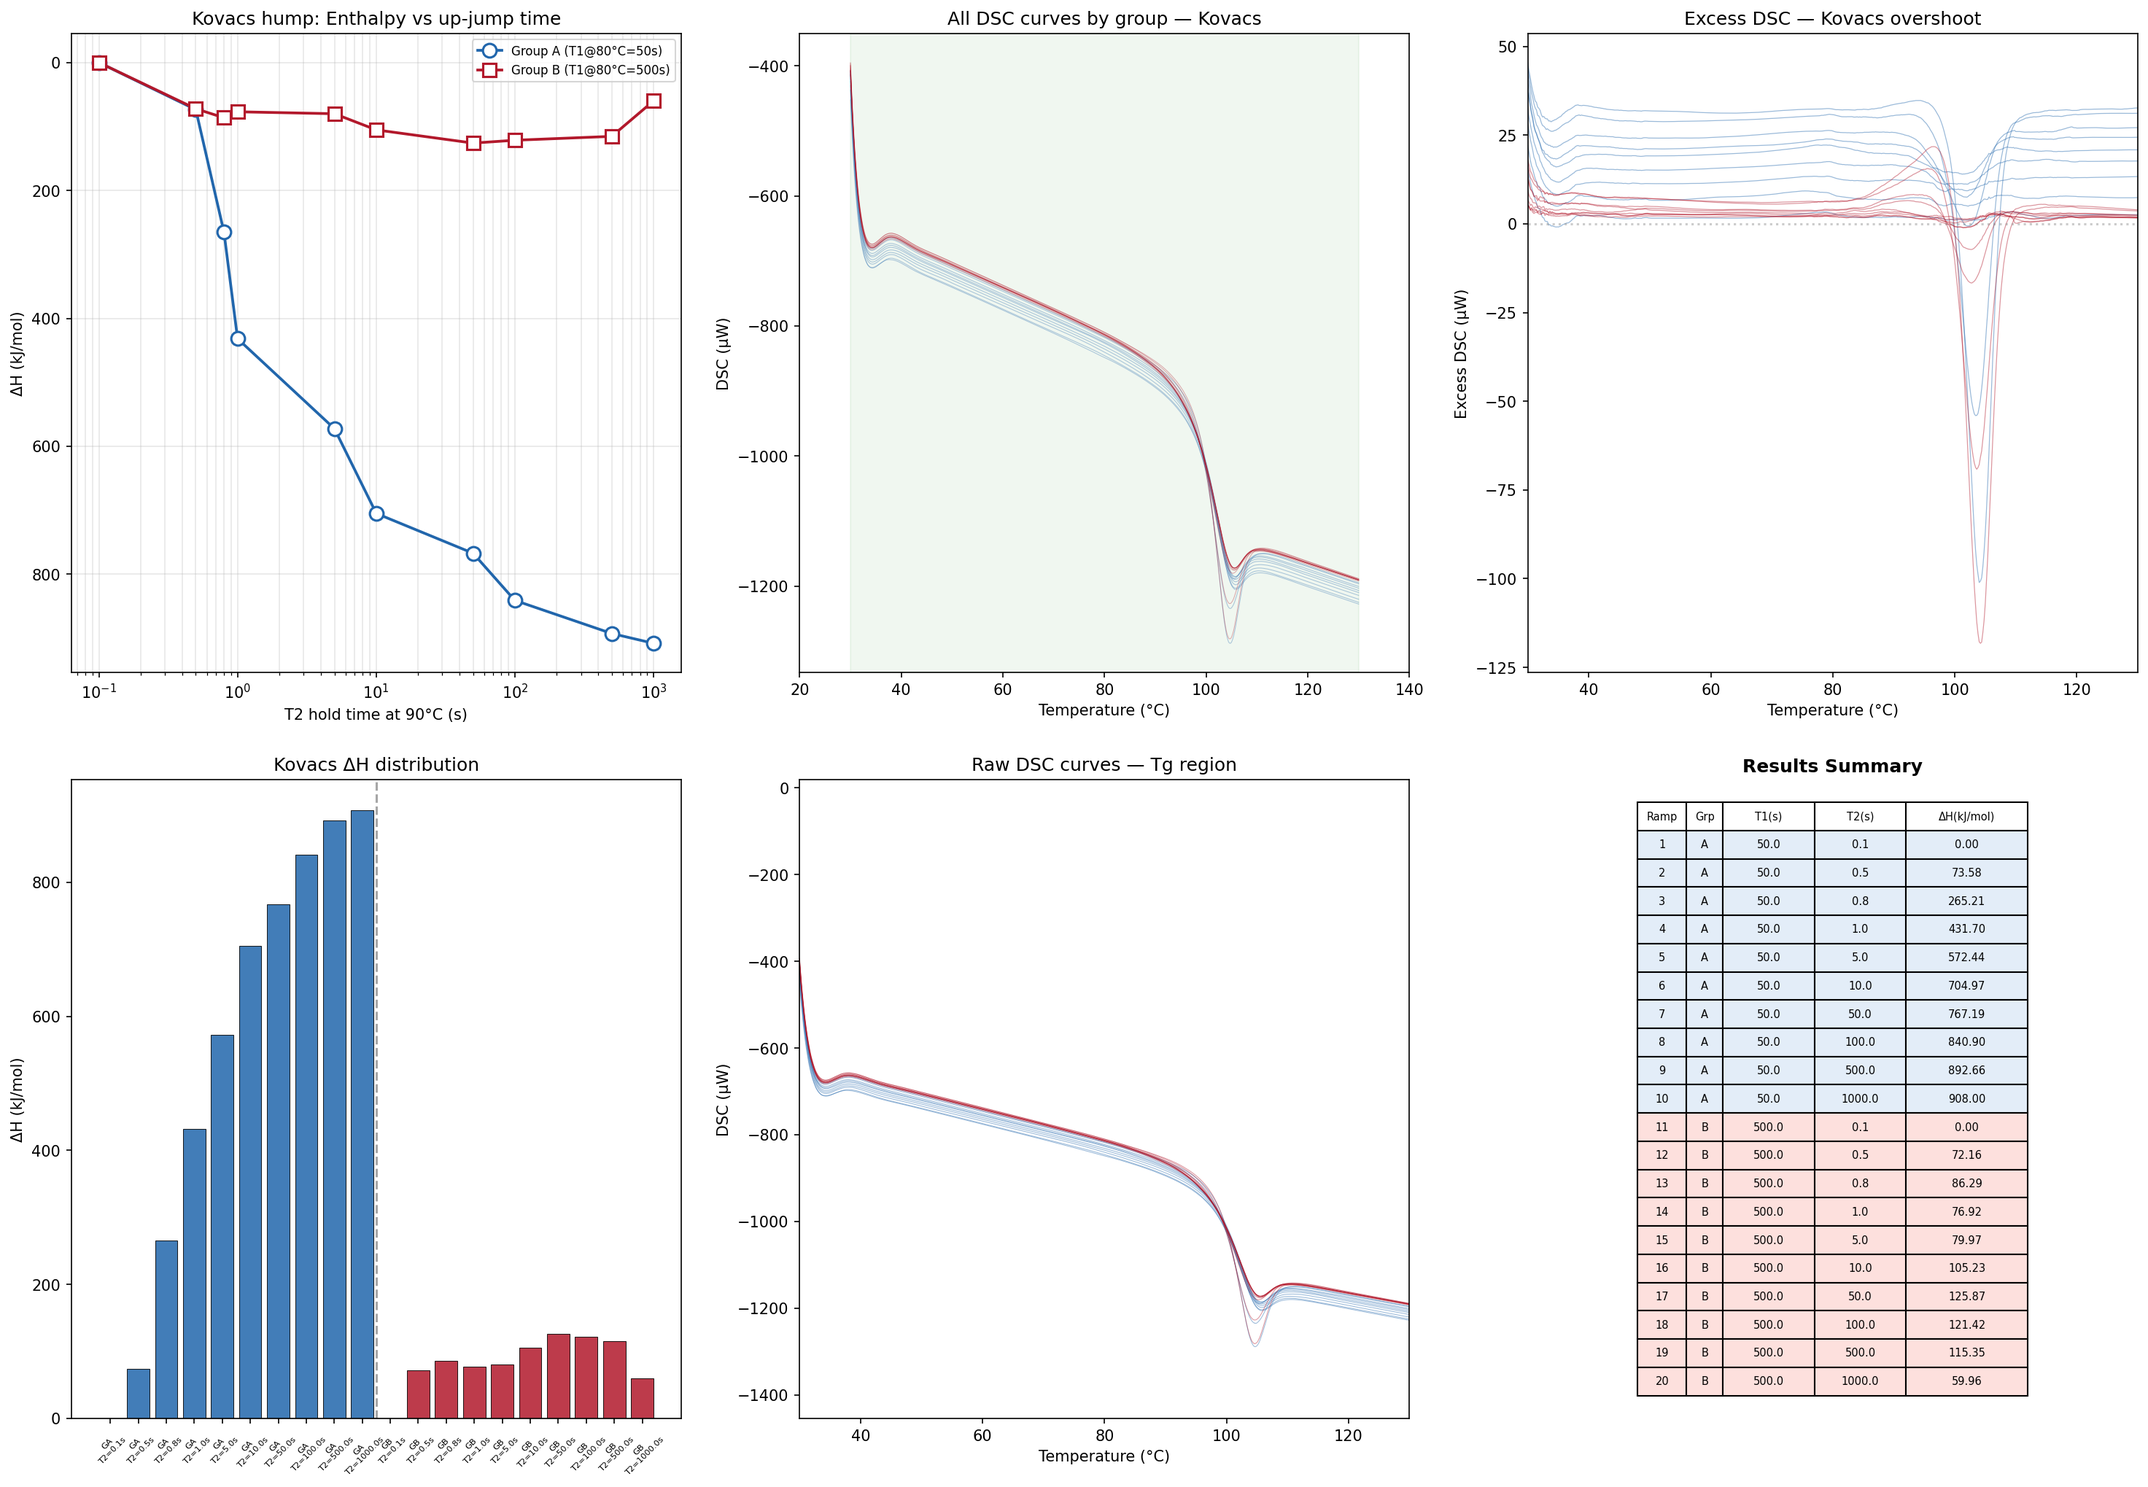
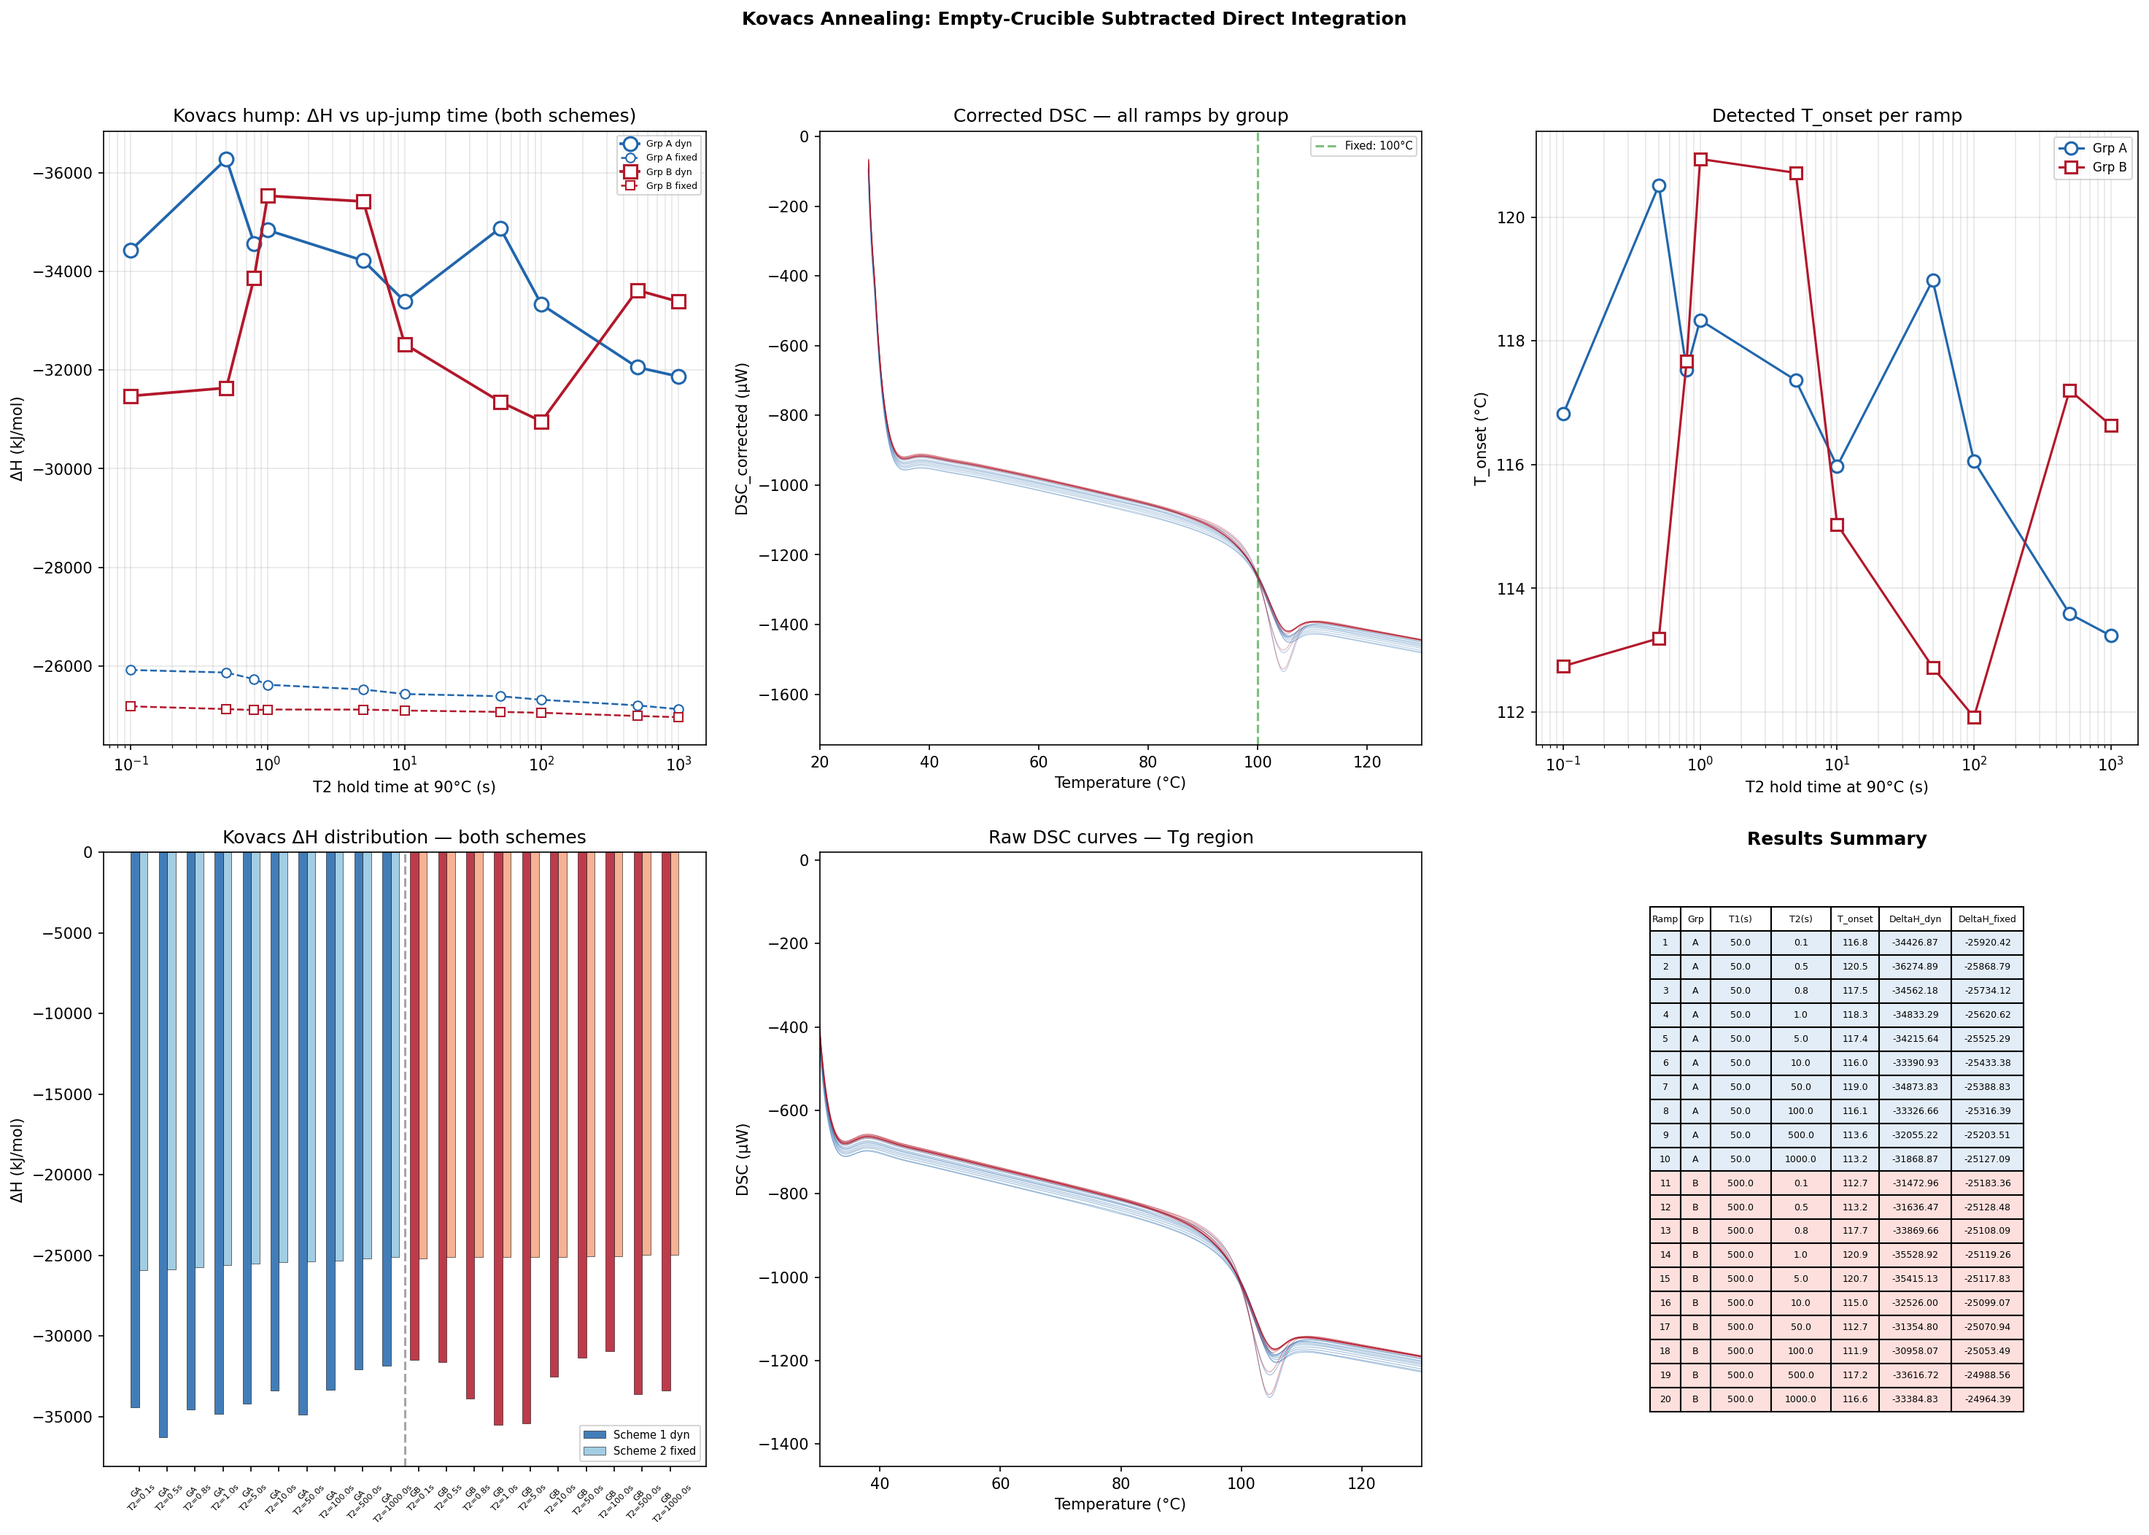
refactor: Kovacs processing to empty-crucible subtraction with dual-scheme integration

diff --git a/src/process_kovacs.py b/src/process_kovacs.py
@@ -10,7 +10,6 @@ should emerge naturally from the data.
 import os
 import numpy as np
 import pandas as pd
-from scipy.interpolate import interp1d
 from scipy.integrate import trapezoid
 import matplotlib
 matplotlib.use('Agg')
@@ -18,6 +17,7 @@ import matplotlib.pyplot as plt
 
 from process_shared import (
     load_dsc_experiment, detect_heating_ramps, compute_enthalpy,
+    load_empty_crucible, subtract_empty_crucible, detect_t_onset,
     HEATING_T_START, HEATING_T_END,
 )
 
@@ -26,8 +26,9 @@ DATA_DIR = os.path.join(ROOT_DIR, 'data')
 RESULTS_DIR = os.path.join(ROOT_DIR, 'results', 'dsc')
 
 T_INT_LOW = 30
-T_INT_HIGH = 130
-T_GRID_STEP = 0.2
+T_INT_HIGH_FIXED = 100
+
+EMPTY_CRUCIBLE_CSV = os.path.join(DATA_DIR, 'csv', 'baseline-01.csv')
 
 
 def map_kovacs(program, ramps):
@@ -74,8 +75,13 @@ def map_kovacs(program, ramps):
 
 def main():
     print("=" * 70)
-    print("  Kovacs annealing DSC — Direct difference method")
+    print("  Kovacs annealing DSC — Empty-crucible subtraction + direct integration")
     print("=" * 70)
+
+    # Load empty crucible
+    T_empty, DSC_empty = load_empty_crucible(EMPTY_CRUCIBLE_CSV)
+    print(f"  Loaded empty crucible: {len(T_empty)} pts, "
+          f"{T_empty.min():.1f}–{T_empty.max():.1f}°C")
 
     exp_data, program = load_dsc_experiment(
         os.path.join(DATA_DIR, 'pskovacs.xlsx'), sheet='PS-kovacs-01')
@@ -91,122 +97,124 @@ def main():
         print(f"    Ramp {c['ramp_idx']:2d} [Grp {c['group']}]: "
               f"T1@80°C={c['T1_hold_s']:8.1f}s, T2@90°C={c['T2_hold_s']:8.1f}s")
 
-    T_grid = np.arange(T_INT_LOW, T_INT_HIGH + T_GRID_STEP, T_GRID_STEP)
-
-    # Interpolate all ramps
-    dsc_interp = {}
-    for cond in conditions:
-        s, e = cond['start_idx'], cond['end_idx']
-        f = interp1d(T_exp[s:e+1], DSC_exp[s:e+1], kind='linear',
-                     bounds_error=False, fill_value='extrapolate')
-        dsc_interp[cond['ramp_idx']] = f(T_grid)
-
-    # Per-group processing
     results = []
     colors = {'A': '#2166AC', 'B': '#B2182B'}
     markers = {'A': 'o', 'B': 's'}
 
-    for grp_label in ['A', 'B']:
-        grp_conds = [c for c in conditions if c['group'] == grp_label]
-        if len(grp_conds) < 2:
-            continue
+    for cond in conditions:
+        s, e = cond['start_idx'], cond['end_idx']
+        T_ramp = T_exp[s:e+1]
+        DSC_ramp = DSC_exp[s:e+1]
 
-        ref_cond = min(grp_conds, key=lambda c: c['T2_hold_s'])
-        ref_dsc = dsc_interp[ref_cond['ramp_idx']]
+        DSC_corr = subtract_empty_crucible(T_ramp, DSC_ramp, T_empty, DSC_empty)
 
-        print(f"\n  [Group {grp_label}] Reference: ramp {ref_cond['ramp_idx']}, "
-              f"T2 hold = {ref_cond['T2_hold_s']:.1f}s")
+        # Scheme 1: dynamic T_onset
+        T_onset = detect_t_onset(T_ramp, DSC_corr)
+        mask1 = (T_ramp >= T_INT_LOW) & (T_ramp <= T_onset)
+        area1 = trapezoid(DSC_corr[mask1], T_ramp[mask1])
+        dH1 = compute_enthalpy(area1)
 
-        for cond in grp_conds:
-            excess = dsc_interp[cond['ramp_idx']] - ref_dsc
-            excess_area = trapezoid(excess, T_grid)
-            delta_H = compute_enthalpy(excess_area)
-            results.append({
-                'ramp': cond['ramp_idx'],
-                'group': cond['group'],
-                'T1_hold_s': cond['T1_hold_s'],
-                'T2_hold_s': cond['T2_hold_s'],
-                'T1_hold_min': cond['T1_hold_min'],
-                'T2_hold_min': cond['T2_hold_min'],
-                'delta_H_kJmol': delta_H,
-                'is_ref': (cond['ramp_idx'] == ref_cond['ramp_idx']),
-            })
-            marker = ' *REF*' if cond['ramp_idx'] == ref_cond['ramp_idx'] else ''
-            print(f"    Ramp {cond['ramp_idx']:2d}: "
-                  f"T1={cond['T1_hold_s']:8.1f}s, T2={cond['T2_hold_s']:8.1f}s → "
-                  f"ΔH={delta_H:+.2f} kJ/mol{marker}")
+        # Scheme 2: fixed 30-100°C
+        mask2 = (T_ramp >= T_INT_LOW) & (T_ramp <= T_INT_HIGH_FIXED)
+        area2 = trapezoid(DSC_corr[mask2], T_ramp[mask2])
+        dH2 = compute_enthalpy(area2)
+
+        results.append({
+            'ramp': cond['ramp_idx'],
+            'group': cond['group'],
+            'T1_hold_s': cond['T1_hold_s'],
+            'T2_hold_s': cond['T2_hold_s'],
+            'T1_hold_min': cond['T1_hold_min'],
+            'T2_hold_min': cond['T2_hold_min'],
+            'T_onset': T_onset,
+            'delta_H_dyn_kJmol': dH1,
+            'delta_H_fixed_kJmol': dH2,
+            '_T_ramp': T_ramp,
+            '_DSC_corr': DSC_corr,
+        })
+        print(f"    Ramp {cond['ramp_idx']:2d}: T1={cond['T1_hold_s']:8.1f}s, "
+              f"T2={cond['T2_hold_s']:8.1f}s, T_onset={T_onset:.1f}°C → "
+              f"ΔH_dyn={dH1:+.2f}, ΔH_fixed={dH2:+.2f} kJ/mol")
 
     results_df = pd.DataFrame(results)
 
-    # ── Plots ──────────────────────────────────────────────────────────────
+    # Generate plots
     fig = plt.figure(figsize=(20, 14))
 
-    # Panel 1: ΔH vs T2 hold time — THE KOVACS HUMP
+    # Panel 1: ΔH vs T2 hold time — Kovacs hump (both schemes)
     ax1 = fig.add_subplot(2, 3, 1)
     for grp in ['A', 'B']:
         rd = results_df[results_df['group'] == grp].sort_values('T2_hold_s')
-        ax1.plot(rd['T2_hold_s'], rd['delta_H_kJmol'],
+        ax1.plot(rd['T2_hold_s'], rd['delta_H_dyn_kJmol'],
                  marker=markers[grp], color=colors[grp], linewidth=1.8,
                  markersize=9, markerfacecolor='white',
-                 markeredgewidth=1.5,
-                 label=f'Group {grp} (T1@80°C={50 if grp=="A" else 500}s)')
+                 markeredgewidth=1.5, linestyle='-',
+                 label=f'Grp {grp} dyn')
+        ax1.plot(rd['T2_hold_s'], rd['delta_H_fixed_kJmol'],
+                 marker=markers[grp], color=colors[grp], linewidth=1.2,
+                 markersize=6, markerfacecolor='white',
+                 markeredgewidth=1.0, linestyle='--',
+                 label=f'Grp {grp} fixed')
     ax1.set_xlabel('T2 hold time at 90°C (s)')
     ax1.set_ylabel('ΔH (kJ/mol)')
-    ax1.set_title('Kovacs hump: Enthalpy vs up-jump time')
+    ax1.set_title('Kovacs hump: ΔH vs up-jump time (both schemes)')
     ax1.set_xscale('log')
     ax1.invert_yaxis()
-    ax1.legend(fontsize=8)
+    ax1.legend(fontsize=6)
     ax1.grid(True, alpha=0.3, which='both')
 
-    # Panel 2: All DSC curves
+    # Panel 2: Corrected DSC curves
     ax2 = fig.add_subplot(2, 3, 2)
-    for cond in conditions:
-        ax2.plot(T_grid, dsc_interp[cond['ramp_idx']],
-                 alpha=0.35, linewidth=0.5,
-                 color=colors[cond['group']])
-    ax2.axvspan(T_INT_LOW, T_INT_HIGH, alpha=0.06, color='green')
+    for r in results:
+        ax2.plot(r['_T_ramp'], r['_DSC_corr'], alpha=0.35, linewidth=0.5,
+                 color=colors[r['group']])
+    ax2.axvline(T_INT_HIGH_FIXED, color='green', linestyle='--', alpha=0.5,
+                label=f'Fixed: {T_INT_HIGH_FIXED}°C')
     ax2.set_xlabel('Temperature (°C)')
-    ax2.set_ylabel('DSC (µW)')
-    ax2.set_title('All DSC curves by group — Kovacs')
-    ax2.set_xlim(T_INT_LOW - 10, T_INT_HIGH + 10)
+    ax2.set_ylabel('DSC_corrected (µW)')
+    ax2.set_title('Corrected DSC — all ramps by group')
+    ax2.set_xlim(T_INT_LOW - 10, T_INT_HIGH_FIXED + 30)
+    ax2.legend(fontsize=7)
 
-    # Panel 3: Excess DSC
+    # Panel 3: T_onset distribution
     ax3 = fig.add_subplot(2, 3, 3)
-    ref_idxs = {}
     for grp in ['A', 'B']:
-        gcs = [c for c in conditions if c['group'] == grp]
-        ref_idxs[grp] = min(gcs, key=lambda c: c['T2_hold_s'])['ramp_idx']
-    for cond in conditions:
-        ridx = cond['ramp_idx']
-        ref_idx = ref_idxs[cond['group']]
-        if ridx == ref_idx:
-            continue
-        excess = dsc_interp[ridx] - dsc_interp[ref_idx]
-        ax3.plot(T_grid, excess, alpha=0.45, linewidth=0.6,
-                 color=colors[cond['group']])
-    ax3.axhline(0, color='gray', linestyle=':', alpha=0.4)
-    ax3.set_xlabel('Temperature (°C)')
-    ax3.set_ylabel('Excess DSC (µW)')
-    ax3.set_title('Excess DSC — Kovacs overshoot')
-    ax3.set_xlim(T_INT_LOW, T_INT_HIGH)
+        rd = results_df[results_df['group'] == grp].sort_values('T2_hold_s')
+        ax3.plot(rd['T2_hold_s'], rd['T_onset'],
+                 marker=markers[grp], color=colors[grp], linewidth=1.5,
+                 markersize=8, markerfacecolor='white',
+                 markeredgewidth=1.5, label=f'Grp {grp}')
+    ax3.set_xlabel('T2 hold time at 90°C (s)')
+    ax3.set_ylabel('T_onset (°C)')
+    ax3.set_title('Detected T_onset per ramp')
+    ax3.set_xscale('log')
+    ax3.legend(fontsize=8)
+    ax3.grid(True, alpha=0.3, which='both')
 
-    # Panel 4: ΔH bar chart
+    # Panel 4: ΔH bar chart comparison
     ax4 = fig.add_subplot(2, 3, 4)
     n = len(results_df)
     x_pos = np.arange(n)
-    bar_colors = [colors[r['group']] for _, r in results_df.iterrows()]
-    ax4.bar(x_pos, results_df['delta_H_kJmol'], color=bar_colors,
-            edgecolor='black', linewidth=0.5, alpha=0.85)
+    bar_colors_dyn = [colors[r['group']] for _, r in results_df.iterrows()]
+    bar_colors_fixed = ['#92C5DE' if r['group'] == 'A' else '#F4A582'
+                        for _, r in results_df.iterrows()]
+    ax4.bar(x_pos - 0.15, results_df['delta_H_dyn_kJmol'], 0.3,
+            color=bar_colors_dyn, edgecolor='black', linewidth=0.3, alpha=0.85,
+            label='Scheme 1 dyn')
+    ax4.bar(x_pos + 0.15, results_df['delta_H_fixed_kJmol'], 0.3,
+            color=bar_colors_fixed, edgecolor='black', linewidth=0.3, alpha=0.85,
+            label='Scheme 2 fixed')
     ax4.set_xticks(x_pos)
     ax4.set_xticklabels([f"G{r['group']}\nT2={r['T2_hold_s']:.1f}s"
                          for _, r in results_df.iterrows()],
                         fontsize=5.5, rotation=45)
     ax4.set_ylabel('ΔH (kJ/mol)')
-    ax4.set_title('Kovacs ΔH distribution')
+    ax4.set_title('Kovacs ΔH distribution — both schemes')
+    ax4.legend(fontsize=7)
     mid = len(results_df[results_df['group'] == 'A']) - 0.5
     ax4.axvline(mid, color='gray', linestyle='--', alpha=0.7)
 
-    # Panel 5: DSC curves on original grid (Tg region zoom)
+    # Panel 5: Raw DSC curves — Tg region zoom
     ax5 = fig.add_subplot(2, 3, 5)
     for cond in conditions:
         s, e = cond['start_idx'], cond['end_idx']
@@ -216,9 +224,9 @@ def main():
     ax5.set_xlabel('Temperature (°C)')
     ax5.set_ylabel('DSC (µW)')
     ax5.set_title('Raw DSC curves — Tg region')
-    ax5.set_xlim(T_INT_LOW, T_INT_HIGH)
+    ax5.set_xlim(T_INT_LOW, T_INT_HIGH_FIXED + 30)
 
-    # Panel 6: Table
+    # Panel 6: Results table
     ax6 = fig.add_subplot(2, 3, 6)
     ax6.axis('off')
     table_data = []
@@ -226,33 +234,40 @@ def main():
         table_data.append([
             f"{r['ramp']:.0f}", r['group'],
             f"{r['T1_hold_s']:.1f}", f"{r['T2_hold_s']:.1f}",
-            f"{r['delta_H_kJmol']:.2f}",
+            f"{r['T_onset']:.1f}",
+            f"{r['delta_H_dyn_kJmol']:.2f}",
+            f"{r['delta_H_fixed_kJmol']:.2f}",
         ])
-    col_labels = ['Ramp', 'Grp', 'T1(s)', 'T2(s)', 'ΔH(kJ/mol)']
+    col_labels = ['Ramp', 'Grp', 'T1(s)', 'T2(s)', 'T_onset',
+                  'DeltaH_dyn', 'DeltaH_fixed']
     table = ax6.table(cellText=table_data, colLabels=col_labels,
                       cellLoc='center', loc='center',
-                      colWidths=[0.08, 0.06, 0.15, 0.15, 0.2])
+                      colWidths=[0.05, 0.05, 0.10, 0.10, 0.08, 0.12, 0.12])
     table.auto_set_font_size(False)
-    table.set_fontsize(7)
-    table.scale(1.0, 1.3)
+    table.set_fontsize(6)
+    table.scale(1.0, 1.15)
     for row_idx in range(len(table_data)):
-        for col_idx in range(5):
+        for col_idx in range(7):
             cell = table[row_idx + 1, col_idx]
             cell.set_facecolor('#E3EDF8' if row_idx < 10 else '#FDE0DD')
     ax6.set_title('Results Summary', fontweight='bold', pad=5)
 
+    fig.suptitle('Kovacs Annealing: Empty-Crucible Subtracted Direct Integration',
+                 fontsize=12, fontweight='bold', y=1.01)
     plt.tight_layout(pad=2)
     png_path = os.path.join(RESULTS_DIR, 'kovacs_enthalpy_results.png')
     plt.savefig(png_path, dpi=150, bbox_inches='tight')
+    plt.close()
     print(f"\n  Saved {png_path}")
 
     csv_path = os.path.join(RESULTS_DIR, 'kovacs_enthalpy_results.csv')
     save_cols = ['ramp', 'group', 'T1_hold_s', 'T2_hold_s',
-                 'T1_hold_min', 'T2_hold_min', 'delta_H_kJmol']
+                 'T1_hold_min', 'T2_hold_min', 'T_onset',
+                 'delta_H_dyn_kJmol', 'delta_H_fixed_kJmol']
     results_df[save_cols].to_csv(csv_path, index=False, float_format='%.6f')
     print(f"  Saved {csv_path}")
 
-    # Summary
+    # Summary with Kovacs hump check
     print("\n" + "=" * 70)
     print("  RESULTS SUMMARY — Kovacs annealing")
     print("=" * 70)
@@ -260,17 +275,21 @@ def main():
         rd = results_df[results_df['group'] == grp]
         t1_val = rd['T1_hold_s'].iloc[0]
         print(f"\n  Group {grp} (T1@80°C = {t1_val:.0f}s):")
-        print(f"    ΔH: {rd['delta_H_kJmol'].min():.2f} – "
-              f"{rd['delta_H_kJmol'].max():.2f} kJ/mol, n={len(rd)}")
-        dH_vals = rd['delta_H_kJmol'].values
-        if len(dH_vals) >= 3:
-            # Check for Kovacs hump pattern: decrease then increase
-            mid_min = np.min(dH_vals[1:-1])
-            edge_min = min(dH_vals[0], dH_vals[-1])
-            if mid_min < edge_min * 0.8:
-                print(f"    ✓ Kovacs hump detected (mid-range dip!)")
-            else:
-                print(f"    No clear hump pattern")
+        print(f"    DeltaH_dyn:   {rd['delta_H_dyn_kJmol'].min():.2f} – "
+              f"{rd['delta_H_dyn_kJmol'].max():.2f} kJ/mol")
+        print(f"    DeltaH_fixed: {rd['delta_H_fixed_kJmol'].min():.2f} – "
+              f"{rd['delta_H_fixed_kJmol'].max():.2f} kJ/mol")
+        # Check for Kovacs hump pattern
+        dH_vals_dyn = rd['delta_H_dyn_kJmol'].values
+        dH_vals_fixed = rd['delta_H_fixed_kJmol'].values
+        for scheme_name, dH_vals in [('dyn', dH_vals_dyn), ('fixed', dH_vals_fixed)]:
+            if len(dH_vals) >= 3:
+                mid_min = np.min(dH_vals[1:-1])
+                edge_min = min(dH_vals[0], dH_vals[-1])
+                if mid_min < edge_min * 0.8:
+                    print(f"    * {scheme_name}: Kovacs hump detected (mid-range dip!)")
+                else:
+                    print(f"    {scheme_name}: No clear hump pattern")
 
     return results_df
 
